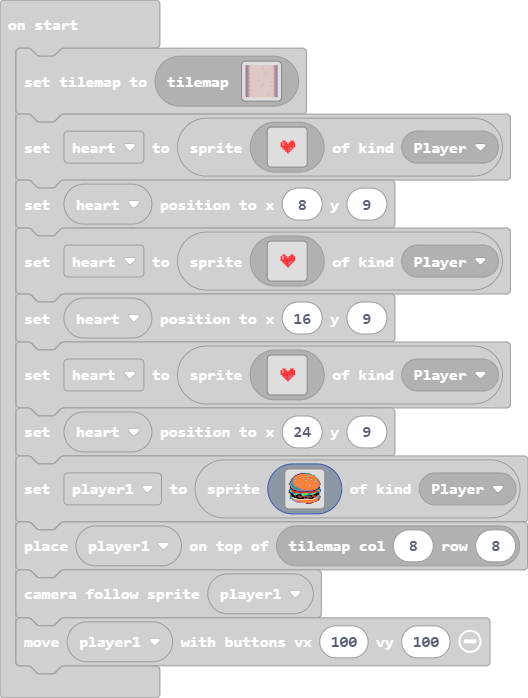
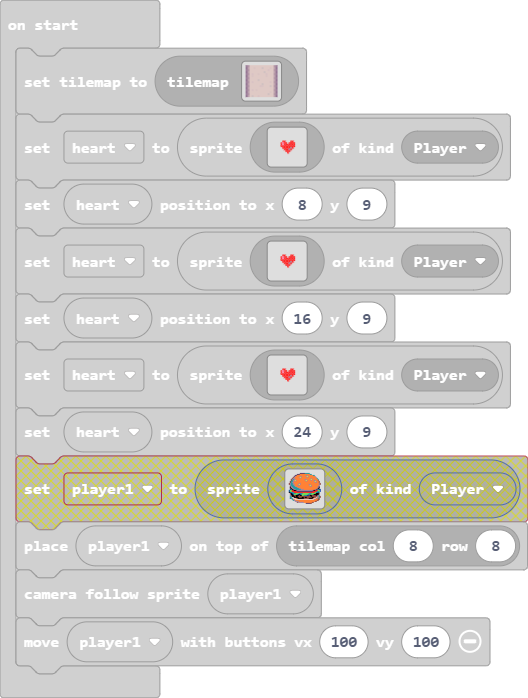
Update main.blocks, main.ts

Changed region(s): [[0.0303, 0.6318, 1.0, 0.7822]]

diff --git a/main.ts b/main.ts
@@ -1,3 +1,4 @@
+let player1: Sprite = null
 tiles.setCurrentTilemap(tilemap`level`)
 let heart = sprites.create(assets.image`heart`, SpriteKind.Player)
 heart.setPosition(8, 9)
@@ -5,7 +6,6 @@ heart = sprites.create(assets.image`heart`, SpriteKind.Player)
 heart.setPosition(16, 9)
 heart = sprites.create(assets.image`heart`, SpriteKind.Player)
 heart.setPosition(24, 9)
-let player1 = sprites.create(assets.image`Burger`, SpriteKind.Player)
 tiles.placeOnTile(player1, tiles.getTileLocation(8, 8))
 scene.cameraFollowSprite(player1)
 controller.moveSprite(player1, 100, 100)
